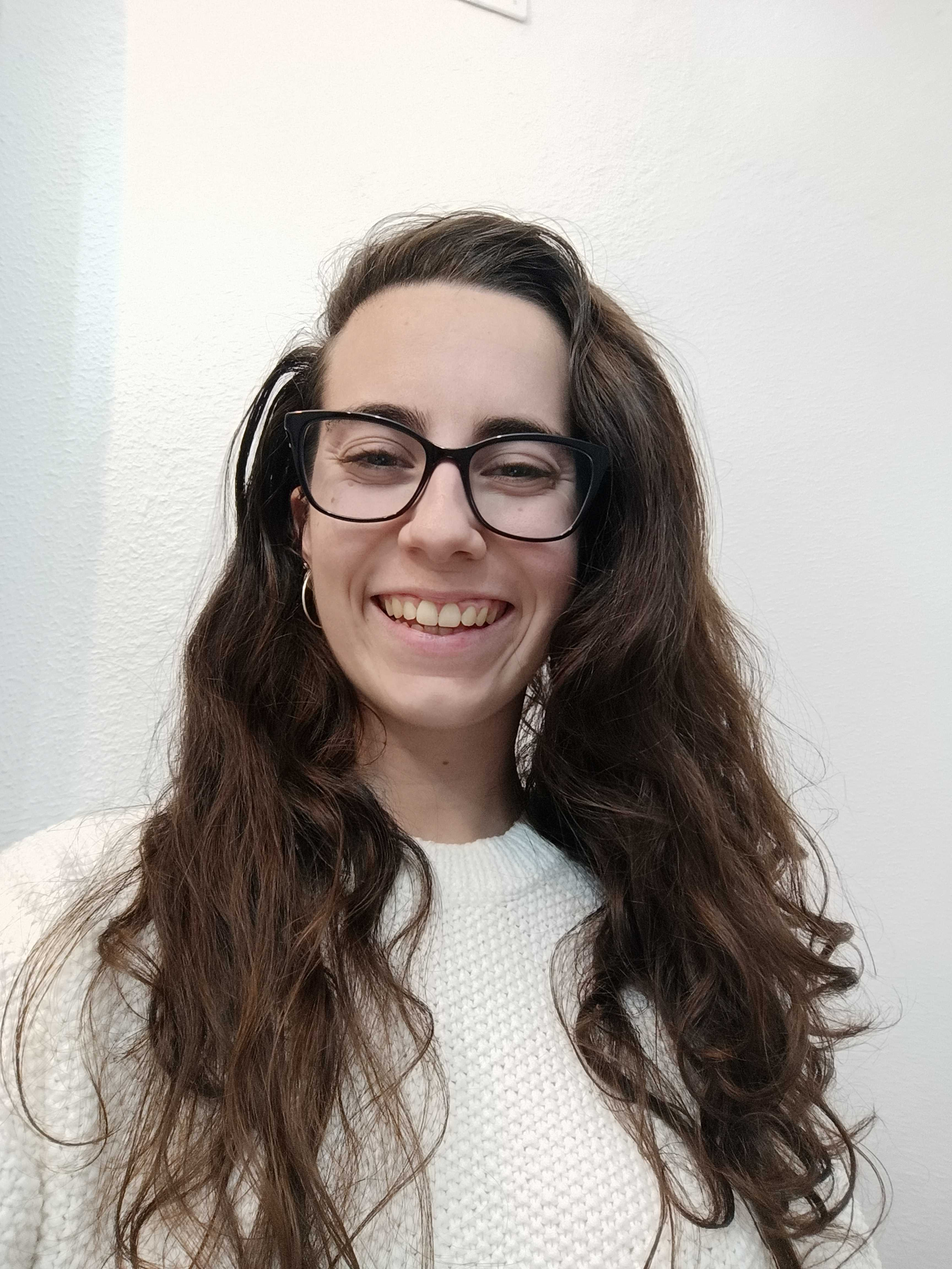
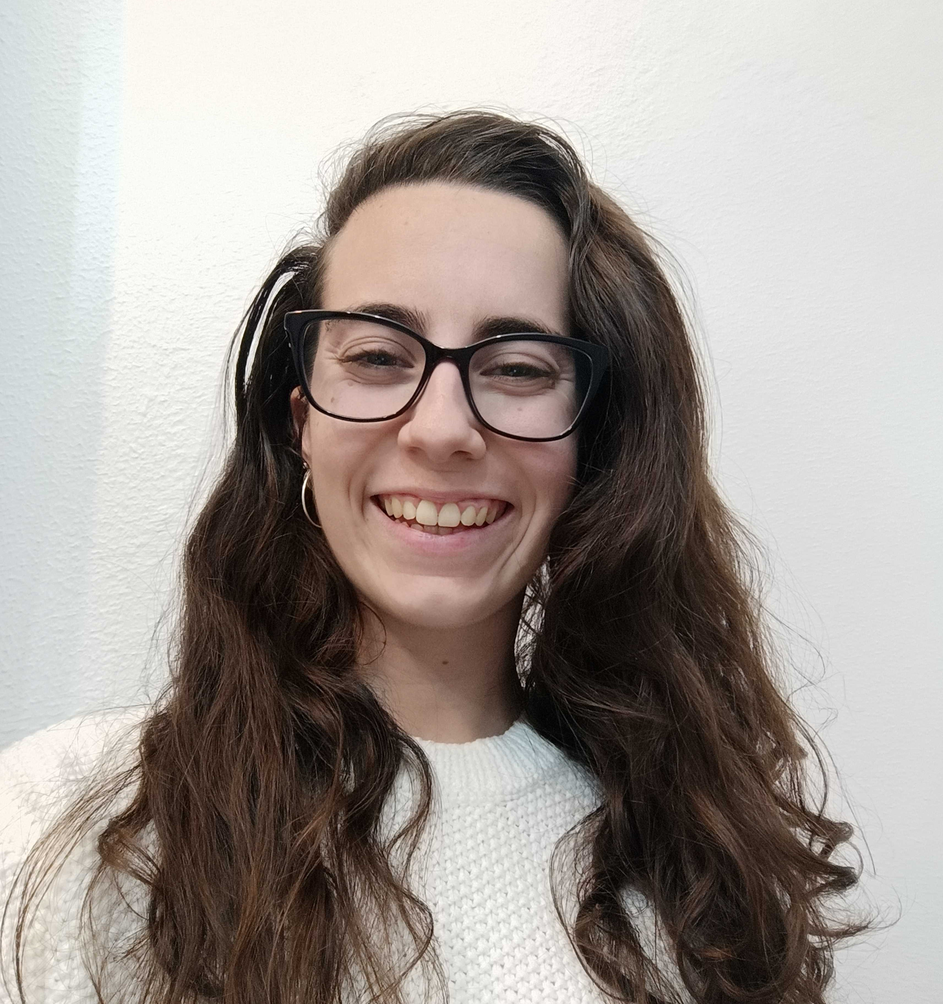
Fix description

diff --git a/src/partials/about-us.html b/src/partials/about-us.html
@@ -4,7 +4,7 @@
   <load src="/partials/memberRight.html" img="/images/IMG_20231204_184755.jpg" altImg="Foto Teresa" name="Teresa Toledo Lara" desc="
   Destaca por su capacidad para adaptarse con agilidad a los cambios. Apasionada por aprender, se sumerge en la autodidaxia con entusiasmo, convirtiendo cada desafío en una oportunidad para crecer. Su dedicación y flexibilidad la hacen brillar en cualquier entorno laboral." linkLinkedin="https://www.linkedin.com/in/teresa-toledo-b2a808189/" linkGithub="https://github.com/teresatoledo" linkMail="laratoledoteresa@hotmail.com" />
   <load src="/partials/memberLeft.html" img="/images/fotoMarta.png" altImg="Foto Marta" name="Marta Bueno Ortiz" desc="Es una chica que no se conforma con lo que tiene, sino que siempre busca mejorar y aprender cosas nuevas. Le encanta planificar su día a día y seguir una rutina que le ayude a cumplir sus objetivos. Es muy positiva y optimista, pero también exigente y detallista con todo lo que hace. No le gusta dejar nada al azar ni cometer errores, por eso se esfuerza al máximo en cada proyecto que emprende." linkLinkedin="www.linkedin.com/in/mbueno992" linkGithub="https://github.com/mbueno992" linkMail="mbueno_92@hotmail.com"/>
-  <load src="/partials/memberRight.html" img="/images/IMG_20231204_184755.jpg" altImg="Foto Rosa" name="Rosa Ponce" desc="
+  <load src="/partials/memberRight.html" img="/images/IMG_20210803_191150.jpg" altImg="Foto Rosa" name="Rosa Ponce" desc="
   Destaca por su capacidad para adaptarse con agilidad a los cambios. Apasionada por aprender, se sumerge en la autodidaxia con entusiasmo, convirtiendo cada desafío en una oportunidad para crecer. Su dedicación y flexibilidad la hacen brillar en cualquier entorno laboral." linkLinkedin="https://www.linkedin.com/in/rosa-ponce-72a48083/" linkGithub=" https://github.com/rosapon" linkMail="yosoyrosaponce@gmail.com" />
   <load src="/partials/memberLeft.html" img="/images/fotoMarta.png" altImg="Foto Jennifer" name="Jennifer Olmedo Rueda" desc="Es una chica que no se conforma con lo que tiene, sino que siempre busca mejorar y aprender cosas nuevas. Le encanta planificar su día a día y seguir una rutina que le ayude a cumplir sus objetivos. Es muy positiva y optimista, pero también exigente y detallista con todo lo que hace. No le gusta dejar nada al azar ni cometer errores, por eso se esfuerza al máximo en cada proyecto que emprende." linkLinkedin="www.linkedin.com/in/mbueno992" linkGithub="https://github.com/mbueno992" linkMail="mbueno_92@hotmail.com"/>
  

diff --git a/src/scss/main.scss b/src/scss/main.scss
@@ -277,33 +277,32 @@ font-family: 'Open Sans', sans-serif;*/
     flex-direction: row-reverse;
     text-align: right;
   }
-
-  .nameLeftWho {
-    text-align: left;
-    padding-left: 30px;
+  .boxDescriptionWhoLeft{
+    margin-right: 44px;
+    margin-left: 31px;
+    display:flex;
+    flex-direction: column;
+    align-items: start;
+    gap: 15px;
   }
-  .namerightWho {
-    text-align: right;
-    padding-right: 30px;
+  .descriptionLeftWho{
+    width: 443px;
+    text-align: start;
+    margin: 0;
+    }
+  .boxDescriptionWhoRight{
+    margin-right: 44px;
+    margin-left: 31px;
+    display:flex;
+    flex-direction: column;
+    align-items: end;
+    gap: 15px;
   }
-  .descriptionLeftWho {
-    text-align: left;
-    padding-left: 5px;
-    margin-bottom: 15px;
-  }
-  .descriptionRightWho {
-    text-align: right;
-    padding-right: 5px;
-    margin-bottom: 15px;
-  }
-  .iconBoxLeftWho {
-    justify-content: flex-start;
-    padding: 31px;
-  }
-  .iconBoxRightWho {
-    justify-content: flex-end;
-    padding: 31px;
-  }
+  .descriptionRightWho{
+    width: 443px;
+    text-align: end;
+    margin: 0;
+    }
 }
 
 @media (min-width: 1200px) {
@@ -341,22 +340,16 @@ font-family: 'Open Sans', sans-serif;*/
     padding-left: 0;
     border-radius: 5px solid var(--cool-grey);
   }
-  .nameLeftWho {
-    padding-left: 65px;
+  .boxDescriptionWhoLeft{
+    margin-right: 300px;
+    margin-left: 45px;
   }
-  .descriptionLeftWho {
-    padding-left: 45px;
+  .descriptionWho{
+    width: 440px;
+  
   }
-  .iconBoxLeftWho {
-    padding-left: 65px;
-  }
-  .namerightWho {
-    padding-right: 45px;
-  }
-  .descriptionRightWho {
-    padding-right: 25px;
-  }
-  .iconBoxRightWho {
-    padding-right: 50px;
+  .boxDescriptionWhoRight{
+    margin-left:300px;
+    margin-right: 45px;
   }
 }

diff --git a/src/partials/memberRight.html b/src/partials/memberRight.html
@@ -4,7 +4,7 @@
         class="imageWho"
         src="{=$img}" alt="{=$altImg}"/>
     </figure>
-    <div class="boxDescriptionWho">
+    <div class="boxDescriptionWhoRight">
       <h3 class="nameWho namerightWho">{=$name}</h3>
       <p class="descriptionWho descriptionRightWho">
         {=$desc}

diff --git a/src/partials/memberLeft.html b/src/partials/memberLeft.html
@@ -4,7 +4,7 @@
       class="imageWho"
       src="{=$img}" alt="{=$altImg}"/>
   </figure>
-  <div class="boxDescriptionWho">
+  <div class="boxDescriptionWhoLeft">
     <h3 class="nameWho nameLeftWho">{=$name}</h3>
     <p class="descriptionWho descriptionLeftWho">
       {=$desc}
